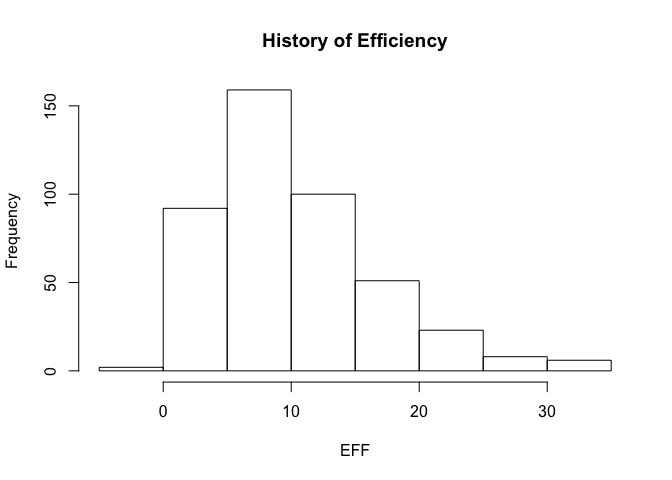
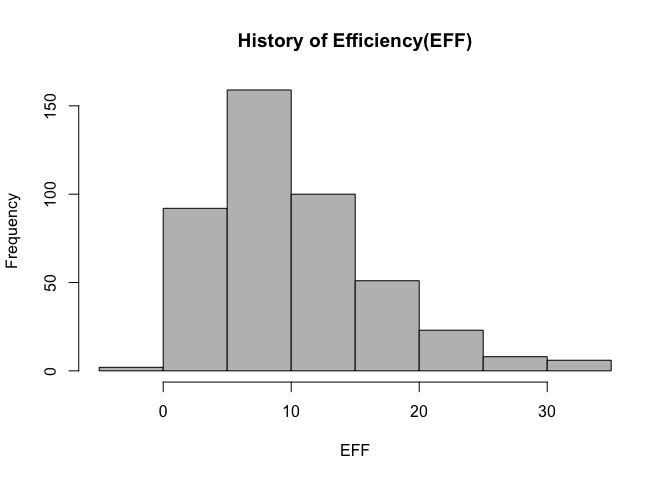
hw02

Changed region(s): [[0.1562, 0.1875, 0.9062, 0.7812], [0.3438, 0.0625, 0.7188, 0.125]]

diff --git a/hws/hw02/hw02-shivani-prabala.md b/hws/hw02/hw02-shivani-prabala.md
@@ -136,9 +136,14 @@ PART3
 
 ``` r
 #Data processing on Experience 
-
 data_frame_base$Experience[data_frame_base$Experience=="R"] <- 0 #replacing all values of "R" with 0
 data_frame_base$Experience <- as.integer(data_frame_base$Experience) #converting Experience to integer 
+class(data_frame_base$Experience)
+```
+
+    ## [1] "integer"
+
+``` r
 str(data_frame_base)
 ```
 
@@ -167,94 +172,6 @@ str(data_frame_base)
     ##  $ STL         : int  52 52 68 0 9 70 72 10 35 26 ...
     ##  $ BLK         : int  87 62 11 0 7 13 23 2 18 17 ...
     ##  $ TO          : int  116 77 88 0 25 210 79 4 68 39 ...
-
-``` r
-data_frame_readr$Experience[data_frame_readr$Experience=="R"] <- 0 
-data_frame_readr$Experience <- as.integer(data_frame_readr$Experience) 
-str(data_frame_readr)
-```
-
-    ## Classes 'tbl_df', 'tbl' and 'data.frame':    441 obs. of  24 variables:
-    ##  $ Player      : chr  "Al Horford" "Amir Johnson" "Avery Bradley" "Demetrius Jackson" ...
-    ##  $ Team        : chr  "BOS" "BOS" "BOS" "BOS" ...
-    ##  $ Position    : Factor w/ 5 levels "C","PF","PG",..: 1 2 5 3 4 3 4 5 4 2 ...
-    ##  $ Experience  : int  9 11 6 0 9 5 4 2 0 6 ...
-    ##  $ Salary      : num  26540100 12000000 8269663 1450000 1410598 ...
-    ##  $ Rank        : int  4 6 5 15 11 1 3 13 8 10 ...
-    ##  $ Age         : int  30 29 26 22 31 27 26 21 20 29 ...
-    ##  $ GP          : int  68 80 55 5 47 76 72 29 78 78 ...
-    ##  $ GS          : int  68 77 55 0 0 76 72 0 20 6 ...
-    ##  $ MIN         : int  2193 1608 1835 17 538 2569 2335 220 1341 1232 ...
-    ##  $ FGM         : int  379 213 359 3 95 682 333 25 192 114 ...
-    ##  $ FGA         : int  801 370 775 4 232 1473 720 58 423 262 ...
-    ##  $ Points3     : int  86 27 108 1 39 245 157 12 46 45 ...
-    ##  $ Points3_atts: int  242 66 277 1 111 646 394 35 135 130 ...
-    ##  $ Points2     : int  293 186 251 2 56 437 176 13 146 69 ...
-    ##  $ Points2_atts: int  559 304 498 3 121 827 326 23 288 132 ...
-    ##  $ FTM         : int  108 67 68 3 33 590 176 6 85 26 ...
-    ##  $ FTA         : int  135 100 93 6 41 649 217 9 124 37 ...
-    ##  $ OREB        : int  95 117 65 2 17 43 48 6 45 60 ...
-    ##  $ DREB        : int  369 248 269 2 68 162 367 20 175 213 ...
-    ##  $ AST         : int  337 140 121 3 33 449 155 4 64 71 ...
-    ##  $ STL         : int  52 52 68 0 9 70 72 10 35 26 ...
-    ##  $ BLK         : int  87 62 11 0 7 13 23 2 18 17 ...
-    ##  $ TO          : int  116 77 88 0 25 210 79 4 68 39 ...
-    ##  - attr(*, "spec")=List of 2
-    ##   ..$ cols   :List of 24
-    ##   .. ..$ Player      : list()
-    ##   .. .. ..- attr(*, "class")= chr  "collector_character" "collector"
-    ##   .. ..$ Team        : list()
-    ##   .. .. ..- attr(*, "class")= chr  "collector_character" "collector"
-    ##   .. ..$ Position    :List of 3
-    ##   .. .. ..$ levels    : chr  "C" "PF" "PG" "SF" ...
-    ##   .. .. ..$ ordered   : logi FALSE
-    ##   .. .. ..$ include_na: logi FALSE
-    ##   .. .. ..- attr(*, "class")= chr  "collector_factor" "collector"
-    ##   .. ..$ Experience  : list()
-    ##   .. .. ..- attr(*, "class")= chr  "collector_character" "collector"
-    ##   .. ..$ Salary      : list()
-    ##   .. .. ..- attr(*, "class")= chr  "collector_double" "collector"
-    ##   .. ..$ Rank        : list()
-    ##   .. .. ..- attr(*, "class")= chr  "collector_integer" "collector"
-    ##   .. ..$ Age         : list()
-    ##   .. .. ..- attr(*, "class")= chr  "collector_integer" "collector"
-    ##   .. ..$ GP          : list()
-    ##   .. .. ..- attr(*, "class")= chr  "collector_integer" "collector"
-    ##   .. ..$ GS          : list()
-    ##   .. .. ..- attr(*, "class")= chr  "collector_integer" "collector"
-    ##   .. ..$ MIN         : list()
-    ##   .. .. ..- attr(*, "class")= chr  "collector_integer" "collector"
-    ##   .. ..$ FGM         : list()
-    ##   .. .. ..- attr(*, "class")= chr  "collector_integer" "collector"
-    ##   .. ..$ FGA         : list()
-    ##   .. .. ..- attr(*, "class")= chr  "collector_integer" "collector"
-    ##   .. ..$ Points3     : list()
-    ##   .. .. ..- attr(*, "class")= chr  "collector_integer" "collector"
-    ##   .. ..$ Points3_atts: list()
-    ##   .. .. ..- attr(*, "class")= chr  "collector_integer" "collector"
-    ##   .. ..$ Points2     : list()
-    ##   .. .. ..- attr(*, "class")= chr  "collector_integer" "collector"
-    ##   .. ..$ Points2_atts: list()
-    ##   .. .. ..- attr(*, "class")= chr  "collector_integer" "collector"
-    ##   .. ..$ FTM         : list()
-    ##   .. .. ..- attr(*, "class")= chr  "collector_integer" "collector"
-    ##   .. ..$ FTA         : list()
-    ##   .. .. ..- attr(*, "class")= chr  "collector_integer" "collector"
-    ##   .. ..$ OREB        : list()
-    ##   .. .. ..- attr(*, "class")= chr  "collector_integer" "collector"
-    ##   .. ..$ DREB        : list()
-    ##   .. .. ..- attr(*, "class")= chr  "collector_integer" "collector"
-    ##   .. ..$ AST         : list()
-    ##   .. .. ..- attr(*, "class")= chr  "collector_integer" "collector"
-    ##   .. ..$ STL         : list()
-    ##   .. .. ..- attr(*, "class")= chr  "collector_integer" "collector"
-    ##   .. ..$ BLK         : list()
-    ##   .. .. ..- attr(*, "class")= chr  "collector_integer" "collector"
-    ##   .. ..$ TO          : list()
-    ##   .. .. ..- attr(*, "class")= chr  "collector_integer" "collector"
-    ##   ..$ default: list()
-    ##   .. ..- attr(*, "class")= chr  "collector_guess" "collector"
-    ##   ..- attr(*, "class")= chr "col_spec"
 
 PART4
 =====
@@ -296,7 +213,7 @@ summary(data_frame_base$EFF)
 
 ``` r
 #histogram for EFF 
-hist(data_frame_base$EFF, xlab = "EFF", main="History of Efficiency")
+hist(data_frame_base$EFF, xlab = "EFF", main="History of Efficiency(EFF)", col="grey")
 ```
 
 ![](hw02-shivani-prabala_files/figure-markdown_github-ascii_identifiers/unnamed-chunk-4-1.png)
@@ -330,27 +247,75 @@ data_frame_base$Player[data_frame_base$EFF<0]
 #correlations between EFF and all variables used in EFF formula 
 #correlation between EFF and Missed_FG
 Missed_FG <- -cor(data_frame_base$EFF, data_frame_base$Missed_FG)
+Missed_FG
+```
+
+    ## [1] -0.7722477
+
+``` r
 #correlation between EFF and Missed_FT 
 Missed_FT <- -cor(data_frame_base$EFF, data_frame_base$Missed_FT)
+Missed_FT
+```
+
+    ## [1] -0.7271456
+
+``` r
 #correlation between EFF and PTS 
 PTS <- cor(data_frame_base$EFF, data_frame_base$PTS)
+PTS
+```
+
+    ## [1] 0.8588644
+
+``` r
 #correlation between EFF and REB
 REB <- cor(data_frame_base$EFF, data_frame_base$REB)
+REB
+```
+
+    ## [1] 0.7634501
+
+``` r
 #correlation between EFF and AST 
-AST <- cor(data_frame_base$EFF, data_frame_base$AST) 
+AST <- cor(data_frame_base$EFF, data_frame_base$AST)
+AST
+```
+
+    ## [1] 0.6689232
+
+``` r
 #correlation between EFF and STL 
-STL <- cor(data_frame_base$EFF, data_frame_base$STL) 
+STL <- cor(data_frame_base$EFF, data_frame_base$STL)
+STL
+```
+
+    ## [1] 0.6957286
+
+``` r
 #correlation between EFF and BLK 
 BLK <- cor(data_frame_base$EFF, data_frame_base$BLK)
+BLK
+```
+
+    ## [1] 0.5679571
+
+``` r
 #correlation between EFF and TO 
 TO <- -cor(data_frame_base$EFF, data_frame_base$TO)
+TO
+```
 
+    ## [1] -0.8003289
+
+``` r
 #Making a data frame and barplot with correlations 
 names <- c( "Missed_FG", "Missed_FT", "PTS", "REB", "AST", "STL", "BLK", "TO")
 numbers <- c(Missed_FG, Missed_FT, PTS, REB, AST, STL, BLK, TO)
 dfcor_dec <- data.frame(names, numbers)
 dfcor_dec <- arrange(dfcor_dec, desc(numbers))
-barplot(dfcor_dec$numbers, names.arg = dfcor_dec$names, main="Correlations between Player Stats and EFF", ylim=c(-1.0, 1.0), col=c("gray", "gray", "gray", "gray", "gray", "red", "red", "red"))
+barplot(dfcor_dec$numbers, names.arg = dfcor_dec$names, main="Correlations between Player Stats and EFF", ylim=c(-1.0, 1.0), col=c("gray", "gray", "gray", "gray", "gray", "coral", "coral", "coral"), ylab = "EFF")
+abline(h=0)
 ```
 
 ![](hw02-shivani-prabala_files/figure-markdown_github-ascii_identifiers/unnamed-chunk-4-2.png)
